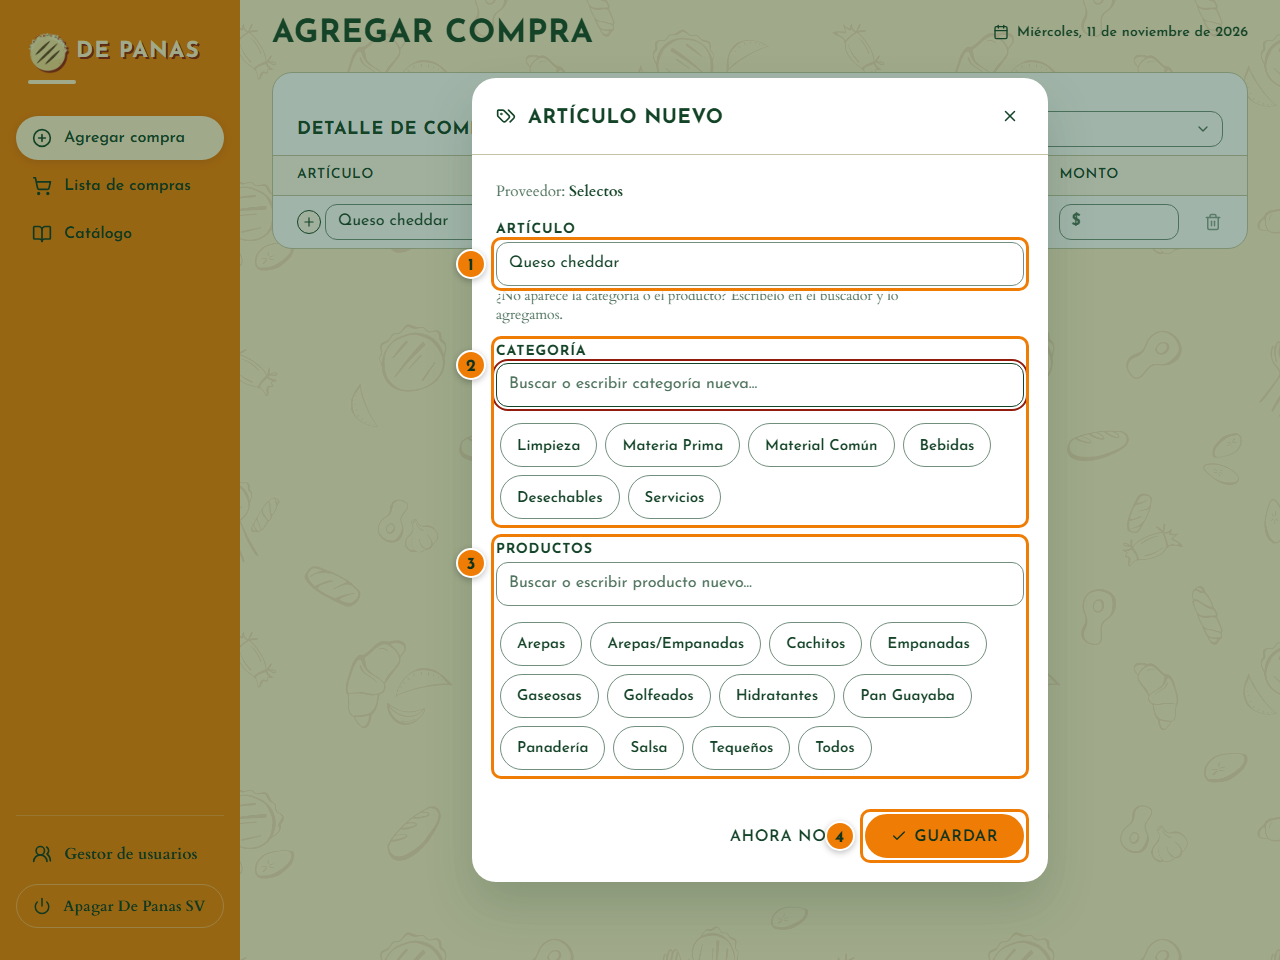
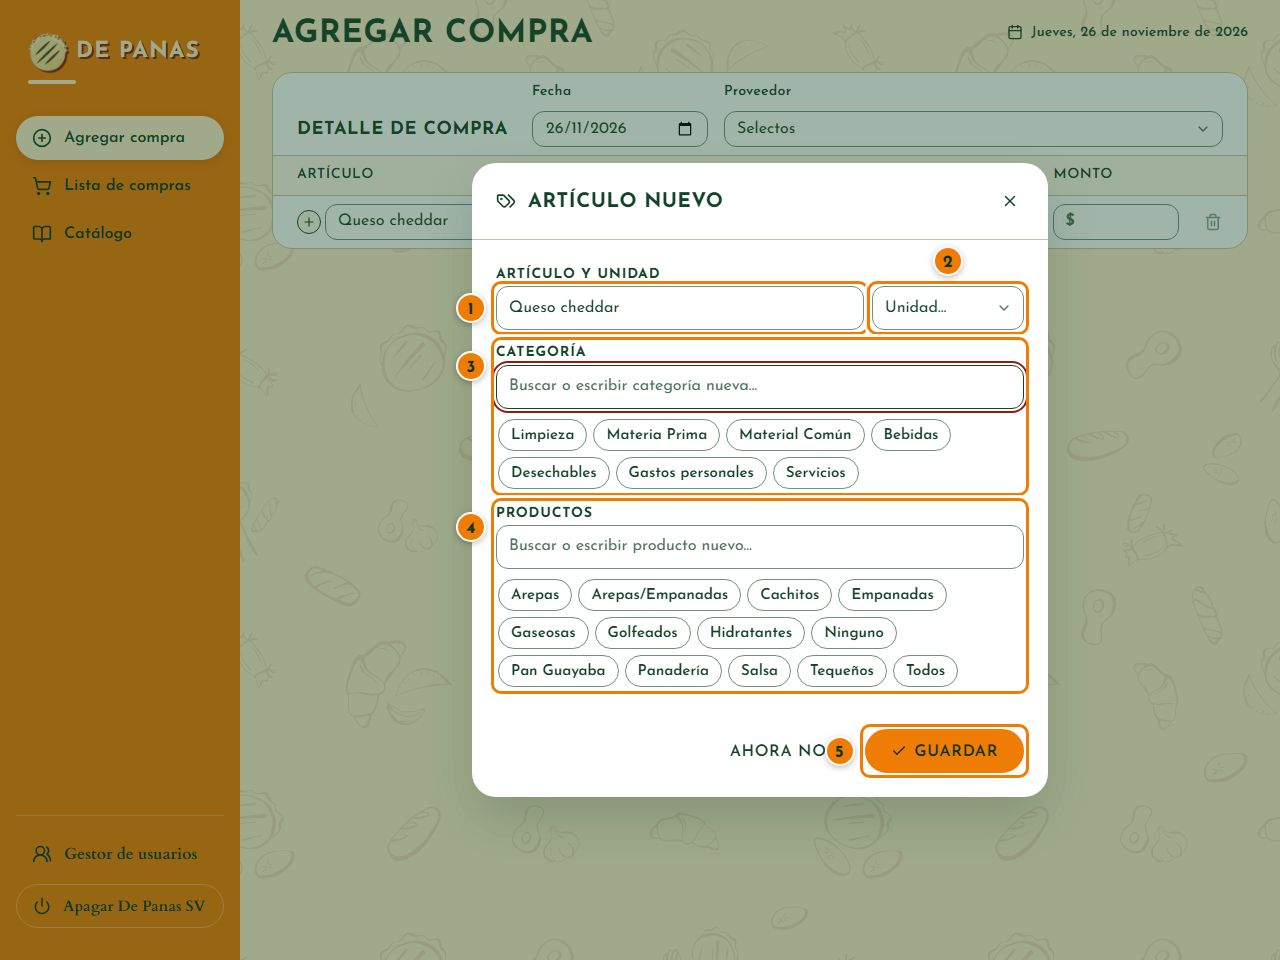
docs(manual): unidad del artículo, Gastos personales y subadministrador, con capturas nuevas
Las capturas salen de la versión demo en español (fechas en día/mes/año).

Changed region(s): [[0.3438, 0.0312, 0.875, 0.9375], [0.8125, 0.2188, 0.8438, 0.25]]

diff --git a/docs/manual/index.html b/docs/manual/index.html
@@ -236,7 +236,7 @@
         <li>Revisa la <b>fecha</b>: empieza en hoy.</li>
         <li>Escribe el <b>proveedor</b>. Si lo que escribes empieza igual que uno guardado, queda marcado y <kbd>Enter</kbd> lo completa.</li>
         <li>Escribe el <b>artículo</b>. Salen los que vende ese proveedor y los que ya le compraste.</li>
-        <li>Pon la <b>cantidad</b> y elige la <b>unidad</b>.</li>
+        <li>Pon la <b>cantidad</b>. La <b>unidad</b> viene del artículo; para cambiarla, toca el <img class="boton" src="img/botones/lapiz-articulo.png" alt="lápiz (editar artículo)"> de la fila.</li>
         <li>Revisa el <b>monto</b>: el precio de la última compra se pone solo. Si cambió, escribe el monto o el precio unitario y el otro se calcula.</li>
         <li>Toca <img class="boton" src="img/botones/guardar-compra.png" alt="Guardar compra"> y confirma.</li>
       </ol>
@@ -252,15 +252,17 @@
       <h2 id="t-articulo">3. Un artículo nuevo</h2>
       <p>Si el artículo no está en el catálogo, toca <img class="boton" src="img/botones/mas-articulo.png" alt="+ (agregar artículo nuevo)"> junto a la fila. Se abre este formulario:</p>
       <figure>
-        <img src="img/03-articulo-nuevo.png" alt="Ventana Artículo nuevo con el nombre (1), la categoría (2), los productos (3) y el botón Guardar (4)" loading="lazy">
+        <img src="img/03-articulo-nuevo.png" alt="Ventana Artículo nuevo con el nombre (1), la unidad (2), la categoría (3), los productos (4) y el botón Guardar (5)" loading="lazy">
       </figure>
       <ol class="marcas">
         <li>Revisa el <b>nombre</b>: viene de lo que escribiste en la fila.</li>
+        <li>Elige su <b>unidad</b> (lb, caja, galón, gr, otros…). Cada vez que lo compres, la fila la pondrá sola.</li>
         <li>Elige su <b>categoría</b> (por ejemplo, Materia Prima). Si no está, escríbela.</li>
         <li>Elige en qué <b>productos</b> se usa (Arepas, Tequeños…). Es opcional.</li>
         <li>Toca <b>Guardar</b> y confirma. Desde ahora sale en el buscador.</li>
       </ol>
-      <p>Con <img class="boton" src="img/botones/ahora-no.png" alt="Ahora no"> la compra se guarda igual y la fila queda marcada en rojo con un «!», para completarlo después. Para corregir un artículo que ya existe, toca el <img class="boton" src="img/botones/lapiz-articulo.png" alt="lápiz (editar artículo)"> junto a la fila.</p>
+      <p>Si la compra no es para cocinar (algo personal, por ejemplo), usa la categoría <b>Gastos personales</b> y el producto <b>Ninguno</b>.</p>
+      <p>Con <img class="boton" src="img/botones/ahora-no.png" alt="Ahora no"> la fila queda marcada en rojo con un «!», para completarlo después; la <b>unidad</b> sí hace falta para guardar la compra. Para corregir un artículo que ya existe, toca el <img class="boton" src="img/botones/lapiz-articulo.png" alt="lápiz (editar artículo)"> junto a la fila.</p>
       <a class="volver" href="#titulo-indice">↑ Volver al índice</a>
     </section>
 
@@ -347,12 +349,12 @@
 
     <section id="usuarios" aria-labelledby="t-usuarios">
       <h2 id="t-usuarios">7. Usuarios y contraseñas</h2>
-      <p>Solo el administrador (César) ve el <b>Gestor de usuarios</b>, al pie del menú.</p>
+      <p>El administrador (César) y los subadministradores ven el <b>Gestor de usuarios</b>, al pie del menú.</p>
       <figure>
         <img src="img/10-usuarios.png" alt="Gestor de usuarios con el botón Agregar usuario (1), el lápiz de Marta (2) y Editar requisitos (3)" loading="lazy">
       </figure>
       <ol class="marcas">
-        <li><img class="boton" src="img/botones/agregar-usuario.png" alt="Agregar usuario">: nombre, usuario, contraseña y rol. El <b>operador</b> puede todo menos el gestor; el <b>empleado</b>, registrar, ver y corregir compras.</li>
+        <li><img class="boton" src="img/botones/agregar-usuario.png" alt="Agregar usuario">: nombre, usuario, contraseña y rol. El <b>subadministrador</b> puede todo, también el gestor, pero no edita a César ni crea otros subadministradores; el <b>operador</b> puede todo menos el gestor; el <b>empleado</b>, registrar, ver y corregir compras.</li>
         <li>Con el <img class="boton" src="img/botones/lapiz-usuario.png" alt="lápiz"> se cambian la contraseña, las pantallas y lo que puede hacer cada persona.</li>
         <li><img class="boton" src="img/botones/editar-requisitos.png" alt="Editar requisitos"> define cómo deben ser las contraseñas nuevas.</li>
       </ol>
